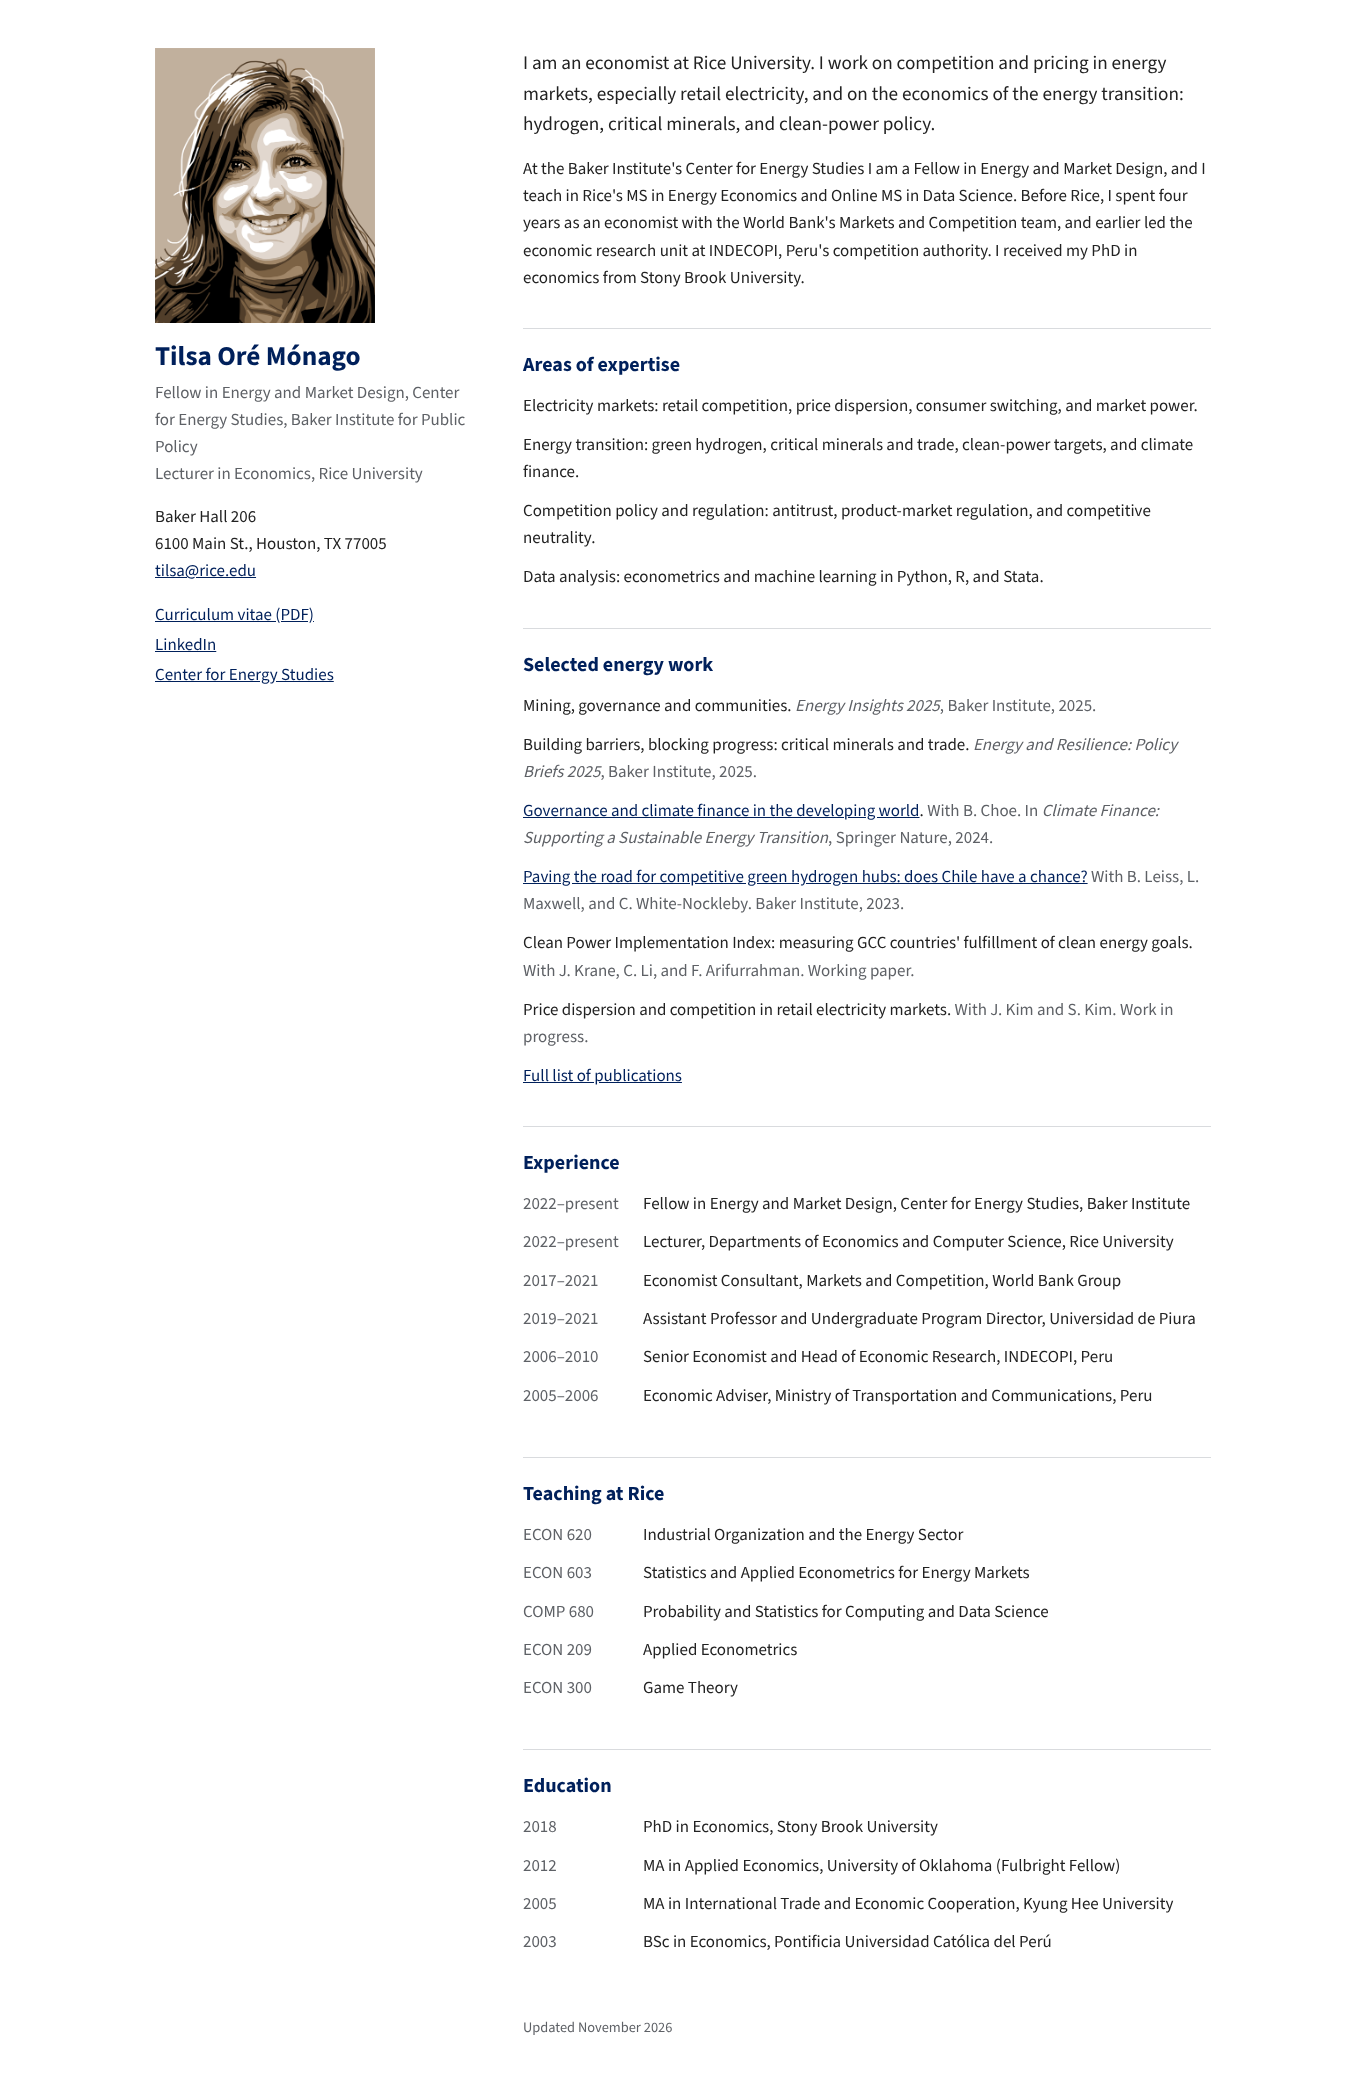
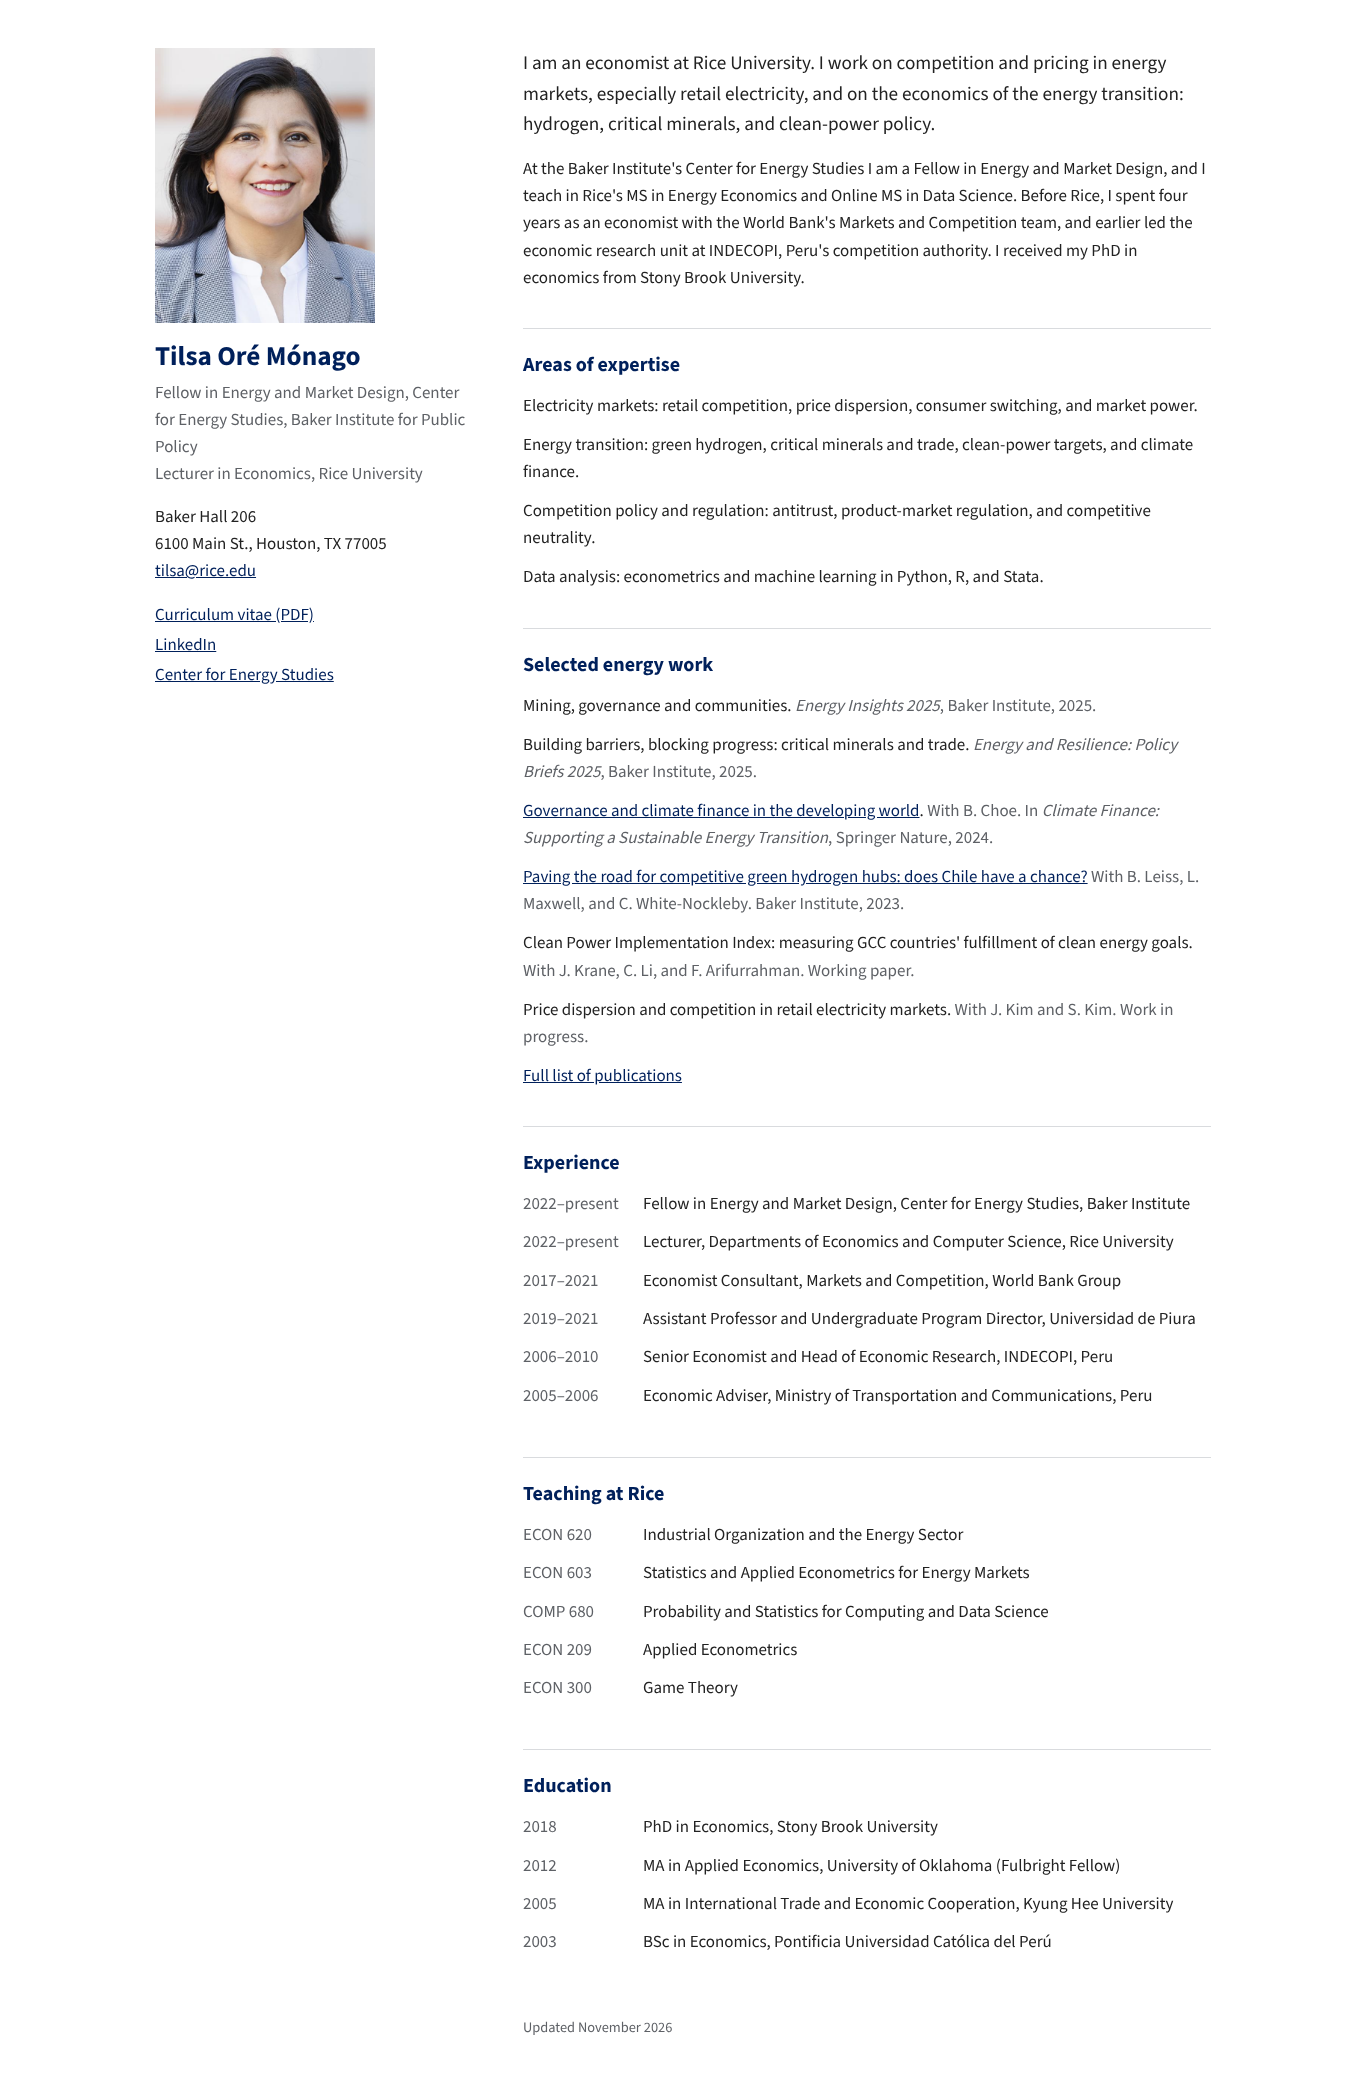
Use Rice profile photo in redesign prototypes

Changed region(s): [[0.0922, 0.0, 0.2767, 0.1557]]

diff --git a/redesign/c-editorial.html b/redesign/c-editorial.html
@@ -43,7 +43,7 @@
   </div>
 
   <div class="intro">
-    <img src="../images/tilsa.png" alt="Tilsa Oré Mónago">
+    <img src="../images/tilsa-rice.jpg" alt="Tilsa Oré Mónago">
     <h1>Tilsa Oré Mónago</h1>
     <p>I am an economist working on how energy markets are organized and regulated. My current research studies price dispersion and competition in retail electricity, the trade and governance of critical minerals, and the conditions for competitive green hydrogen hubs.</p>
     <p>I am a Fellow in Energy and Market Design at the Center for Energy Studies of Rice University's Baker Institute for Public Policy, and a Lecturer in Economics at Rice. Earlier I worked on competition policy at the World Bank and at INDECOPI, Peru's competition authority. My PhD is from Stony Brook University.</p>

diff --git a/redesign/a-profile.html b/redesign/a-profile.html
@@ -36,7 +36,7 @@
 
     <aside class="col-lg-4">
       <div class="sidebar">
-        <img class="portrait" src="../images/tilsa.png" alt="Tilsa Oré Mónago">
+        <img class="portrait" src="../images/tilsa-rice.jpg" alt="Tilsa Oré Mónago">
         <div class="name">Tilsa Oré Mónago</div>
         <p class="role">Fellow in Energy and Market Design, Center for Energy Studies, Baker Institute for Public Policy<br>Lecturer in Economics, Rice University</p>
         <p class="mb-3">Baker Hall 206<br>6100 Main St., Houston, TX 77005<br><a href="mailto:tilsa@rice.edu">tilsa@rice.edu</a></p>

diff --git a/redesign/b-landing.html b/redesign/b-landing.html
@@ -46,7 +46,7 @@
           <span class="text-nowrap">Houston, Texas</span>
         </p>
       </div>
-      <img src="../images/tilsa.png" alt="Tilsa Oré Mónago">
+      <img src="../images/tilsa-rice.jpg" alt="Tilsa Oré Mónago">
     </div>
   </header>
 
